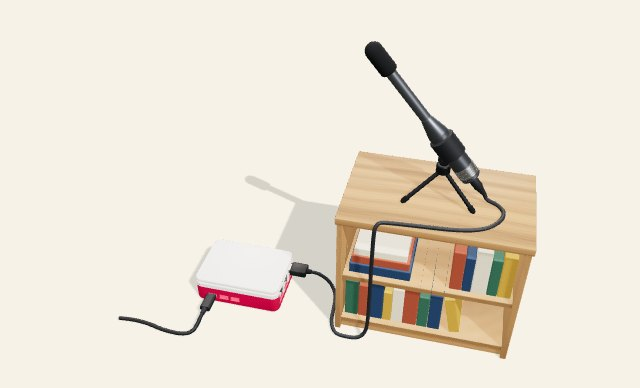
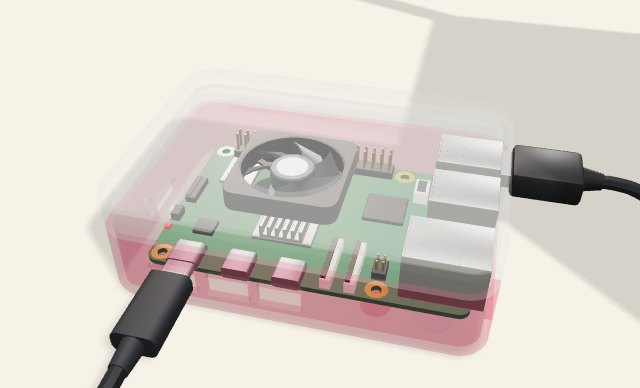
Steps 7 and 11: Play now shows the box starting, stopping and starting again
Audit of 24 Nov 2026, finding 4. In step 11, Play ran for 5 seconds and not
one pixel changed: the lights and the fan are inside the closed case, and
the view was the whole device from far away. Step 7's "then it starts"
changed 243 pixels.
- Step 11 now looks closely at the box, as step 7 does.
- In both steps the case is drawn see-through, so the fan can be seen
  stopping and turning again, and the lights going off and on. The caption
  says so.
Pictures for steps 7 and 11 retaken. Page check: a new check plays step 11
and counts what moves while it is off (nothing) and when it runs again
(116 checks, all pass).

Claude-Session: https://claude.ai/code/session_01TojNKPovKAr42p9DyJKwhL

diff --git a/js/viewer.js b/js/viewer.js
@@ -27,7 +27,8 @@ const ACC = { official: "from the official drawing", simplified: "simplified", e
 const VIEWS = { overview: [0.25, 0.8, 1.0], top: [0.001, 1, 0.02], front: [0.1, 0.45, 1.0], under: [-0.6, -0.35, 0.8], mic: [0.6, 0.35, 1.0] };
 // view, extra, and (optional) the parts the camera frames
 const STEP_VIEW = { 0: ["overview"], 1: ["overview"], 2: ["overview"], 3: ["mic"], 4: ["mic"], 5: ["under", null, ["case_base", "board"]],
-  6: ["front", null, BOX_PARTS], 7: ["front", "power", ["case_base", "case_lid"]], 8: ["overview", "power"], 9: ["mic"], 10: ["mic"], 11: ["overview", "power"] };
+  6: ["front", null, BOX_PARTS], 7: ["front", "power", ["case_base", "case_lid"]], 8: ["overview", "power"], 9: ["mic"], 10: ["mic"],
+  11: ["overview", "power", ["case_base", "case_lid"]] };   // steps 7 and 11: a close look at the box while it runs
 const DEFAULT_CAPTION = caption.textContent;
 const MODEL_V = "b77ff950";   // fingerprint of the model files, written by scripts/make_pictures.py: a changed model gets a new address, so no phone shows a saved old one
 // the hint line in the drone guide's words; a touch screen gets the touch words
@@ -486,8 +487,12 @@ function renderStep(i, animate = true) {
   setExploded(!!(focus && focus.some((k) => PI.includes(k)) && view !== "front"), animate);
   power = extra === "power"; press("b-power", power);
   measure = extra === "measure"; press("b-measure", measure); if (measureGroup) measureGroup.visible = measure;
-  xray = measure || view === "under"; press("b-xray", xray);
-  caption.textContent = focus ? "Step " + s.n + ": " + s.title + " — the glowing parts are the ones this step uses." : DEFAULT_CAPTION;
+  // a close look at the box while it runs (steps 7 and 11): the case is drawn see-through, so the lights and the fan show.
+  // (Audit of 24 Nov 2026, finding 4: with the case shut, Play in step 11 changed nothing you could see.)
+  const seeIn = extra === "power" && !!frame, seeInWords = "the case is drawn see-through so you can watch the lights and the fan";
+  xray = measure || view === "under" || seeIn; press("b-xray", xray);
+  caption.textContent = focus ? "Step " + s.n + ": " + s.title + " — the glowing parts are the ones this step uses." + (seeIn ? " Here " + seeInWords + "." : "")
+    : seeIn ? "Step " + s.n + ": " + s.title + " — " + seeInWords + "." : DEFAULT_CAPTION;
   const aim = frame ? frame : view === "mic" ? (s.n === 9 ? ["mic", "shelf", "cable", "case_base"] : ["mic"]) : extra === "measure" ? ["board"] : focus && view !== "overview" ? focus.filter((k) => k !== "mic") : null;
   if (extra === "measure") focus = ["board"];
   paint();
@@ -555,6 +560,7 @@ window.__view = () => {
   return { dist: camera.position.distanceTo(controls.target), min: controls.minDistance, max: controls.maxDistance,
     polar: controls.getPolarAngle(), maxPolar: controls.maxPolarAngle, moved: userMoved, damping: controls.enableDamping, tweening: !!tween,
     playT: anim.t, playDur: anim.def ? anim.def.dur : 0, playing: anim.playing, lidUp: lid ? lid.position.z - home.get(lid).z : null,
+    lit: !!powerNow(), fanTurn: fanPivot ? fanPivot.rotation.z : 0, seeInside: xray,
     micGlow: mic ? mic.material.emissive.getHexString() : "", micGlowPower: mic ? mic.material.emissiveIntensity : 0, shelfOpacity: shelf ? shelf.material.opacity : null,
     tag: tag.style.display === "block" ? tag.textContent : "", labels: labelsOn, tone: renderer.toneMapping === THREE.ACESFilmicToneMapping ? renderer.toneMappingExposure : 0 };
 };

diff --git a/checks/selftest.html b/checks/selftest.html
@@ -119,7 +119,22 @@ async function run() {
     const p3 = w.__view(); out.paused = !p3.playing && playB.textContent.indexOf("Play") >= 0;
     seekB.value = 1000; seekB.dispatchEvent(new w.Event("input", { bubbles: true })); await settle(200);
     out.playEndLid = w.__view().lidUp;                                          // the slider at its end: everything in place
-    for (let i = 0; i < 6; i++) d.getElementById("m-back").click();
+
+    // ---- step 11: Play must show something (audit of 24 Nov 2026, finding 4: with the case shut, nothing changed) ----
+    for (let i = 0; i < 5; i++) next.click();
+    await settle(1500);
+    const until = async (cond, ms = 15000) => { const t0 = performance.now(); while (!cond() && performance.now() - t0 < ms) await settle(60); };
+    const moved = (a, b) => { let n = 0; for (let i = 0; i < a.length; i += 4) if (Math.abs(a[i] - b[i]) + Math.abs(a[i + 1] - b[i + 1]) + Math.abs(a[i + 2] - b[i + 2]) > 24) n++; return n; };   // of 9216 points
+    const drawn = async (n) => { for (let i = 0; i < n; i++) await new Promise((r) => w.requestAnimationFrame(r)); };
+    // four pictures 2, 3 and 4 drawn frames apart (a fan with 7 blades can look the same after some turns, so one pair is not enough)
+    const fanMoves = async () => { const a = w.__view().fanTurn, s = [shot()]; for (const n of [2, 3, 4]) { await drawn(n); s.push(shot()); } const b = w.__view();
+      return { turned: Math.abs(b.fanTurn - a) > 0.2, points: Math.max(moved(s[0], s[1]), moved(s[1], s[2]), moved(s[2], s[3]), moved(s[0], s[3])), lit: b.lit, at: Math.round(b.playT * 10) / 10 }; };
+    out.step11 = { title: d.getElementById("sp-title").textContent, seeInside: w.__view().seeInside };
+    playB.click(); await until(() => w.__view().playT >= 1.4);                  // from 1.2 s to 3.4 s it is switched off
+    out.step11.off = await fanMoves();
+    await until(() => w.__view().playT >= 3.7 || !w.__view().playing);          // then it starts again
+    out.step11.onAgain = await fanMoves();
+    for (let i = 0; i < 11; i++) d.getElementById("m-back").click();
     await settle(600);
     out.labelsStored = w.localStorage.getItem("noise-logger-3d-labels");        // "1": Labels were switched on above, and that is kept
   }

diff --git a/index.html b/index.html
@@ -347,7 +347,7 @@ table{border-collapse:collapse;width:100%;font-size:15px} td,th{border-bottom:1p
  "sdcard":"microSD (underneath)","case_base":"Case base (simplified)","case_lid":"Official case (simplified)","mic":"UMIK-1 (drawn by eye)","shelf":"High shelf","cable":"Cables (drawn short)"}
 </script>
 <script type="application/json" id="label-steps">{"board":6,"heatsink":6,"fan":6,"usb-c_power":7,"sdcard":5,"case_base":6,"case_lid":6,"mic":3,"shelf":9,"cable":9}</script>
-<script src="js/app2.js?v=89544482"></script>
+<script src="js/app2.js?v=b11be5f6"></script>
 <script>/* iPhone browsers ignore user-scalable=no: cancel their pinch gestures (the 3D view uses pointer events, so it still zooms) */
 ["gesturestart","gesturechange","gestureend"].forEach(function(n){document.addEventListener(n,function(e){e.preventDefault();},{passive:false});});</script>
 </body>

diff --git a/js/app2.js b/js/app2.js
@@ -11,7 +11,7 @@
 
   function boot() {
     start(JSON.parse(document.getElementById("buy-data").textContent), JSON.parse(document.getElementById("steps-data").textContent));
-    var m = document.createElement("script"); m.type = "module"; m.src = "js/viewer.js?v=b1b74cf7"; document.body.appendChild(m);   // the ?v= fingerprint is written by scripts/make_pictures.py
+    var m = document.createElement("script"); m.type = "module"; m.src = "js/viewer.js?v=a14a175f"; document.body.appendChild(m);   // the ?v= fingerprint is written by scripts/make_pictures.py
   }
   boot();
 

diff --git a/scripts/check_page.py b/scripts/check_page.py
@@ -284,6 +284,11 @@ ok(pl.get("going") is True and pl.get("lidUp", 0) > 40 and pl.get("t2", 0) > pl.
    f"Play animates the step: the lid is {pl.get('lidUp')} mm up at {pl.get('t1')} s and it keeps going ({pl.get('t2')} s)")
 ok(pl.get("going") is True and pl.get("zoomed", 1) < 0.99, f"you can zoom while it plays (distance x{pl.get('zoomed')})")
 ok(t.get("paused") is True and t.get("playEndLid") == 0, f"Pause stops it, and the slider's end puts every part in place (lid {t.get('playEndLid')} mm up)")
+s11, off, again = t.get("step11") or {}, (t.get("step11") or {}).get("off") or {}, (t.get("step11") or {}).get("onAgain") or {}
+ok(str(s11.get("title", "")).startswith("11.") and s11.get("seeInside") is True and off.get("lit") is False and off.get("turned") is False and off.get("points", 99) <= 2
+   and again.get("lit") is True and again.get("turned") is True and again.get("points", 0) >= 8,
+   f"step 11: Play shows the box switching off and starting again (case see-through; while off, at {off.get('at')} s, {off.get('points')} of 9216 picture points move; "
+   f"running again, at {again.get('at')} s, {again.get('points')} move)")
 ok(t.get("labelsAtStart") is False and t.get("labelsShownAtStart") == 0, f"no labels on the model until they are asked for ({t.get('labelsShownAtStart')} shown at first)")
 ok("drawn by eye" in t.get("pointTag", "") and t.get("pointGone") is True, f"the mouse resting on the mic says {t.get('pointTag')!r}, and the name goes when it moves off")
 ok(t.get("labelsStored") == "1" and t.get("labelsAfterReload") is True and t.get("labelsButtonAfterReload") == "true" and t.get("labelsBackOff") == "0",
